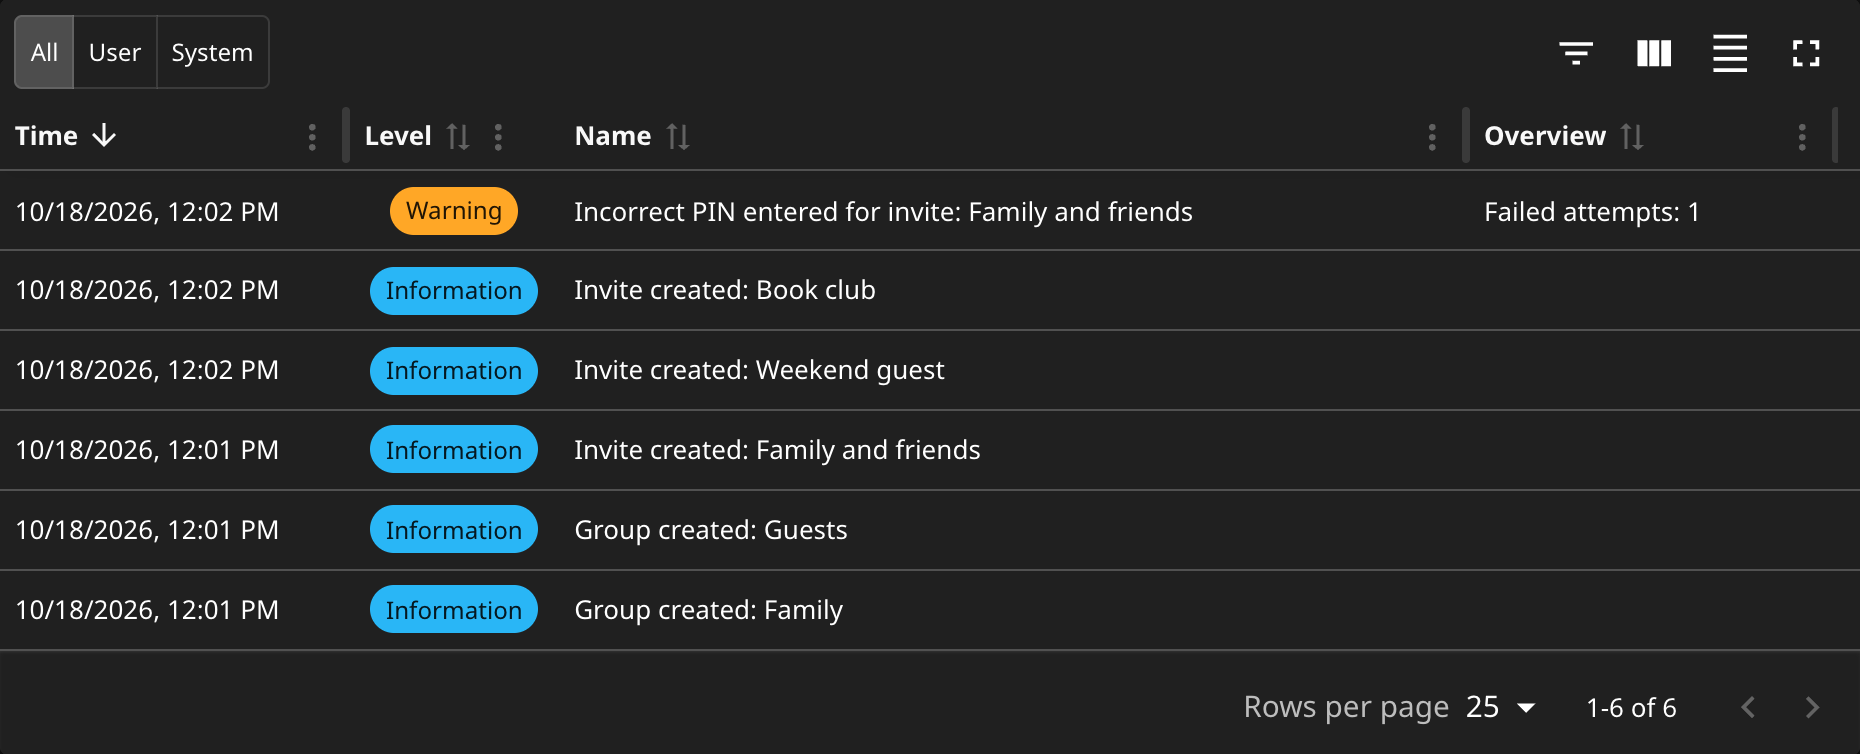
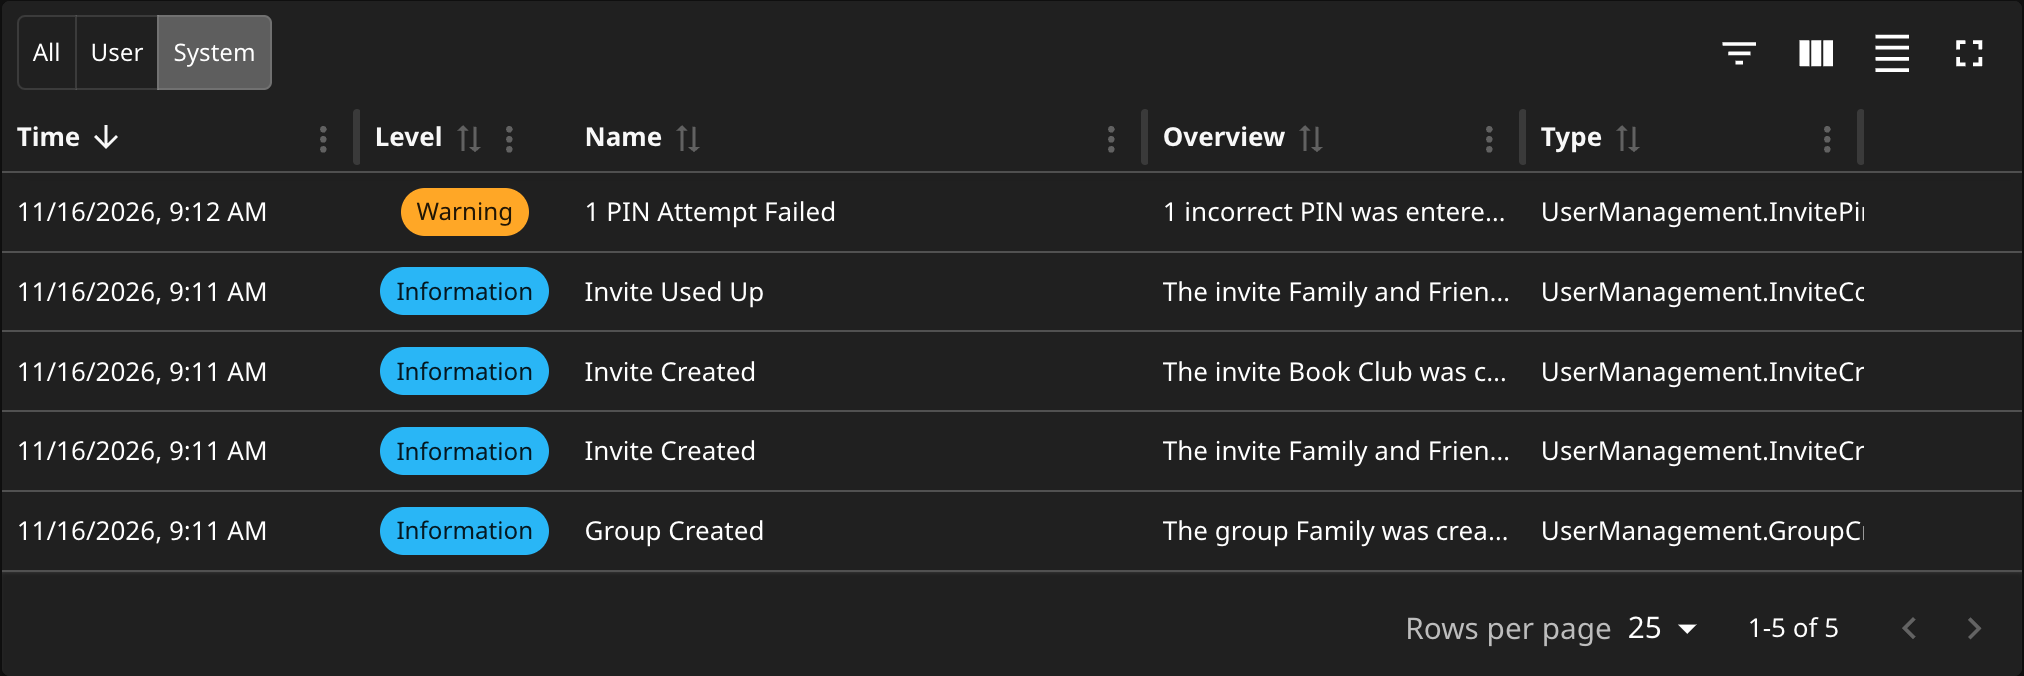
Cover every docs screenshot in the screenshot kit
The kit takes Overview, Create Invite, Manage Access, Password Resets, and
Invite Signup from the plugin's pages, and Activity Log from Jellyfin's own
Activity page on a throwaway Docker server (activity.py). The six shots are
retaken with it.

diff --git a/tools/screenshots/resets.html b/tools/screenshots/resets.html
@@ -1,0 +1,45 @@
+<!doctype html>
+<html dir="ltr" class="layout-desktop"><head><meta charset="utf-8"><meta name="viewport" content="width=device-width, initial-scale=1"><title>User Management Resets</title>
+<!--stylesheets-->
+<script src="upgrade.js"></script>
+</head><body>
+<div class="skinBody"><div class="mainAnimatedPages skinBody-withFullDrawer"><div id="host"></div></div></div>
+<script>
+window.__errs=[];window.addEventListener('error',function(e){__errs.push(e.message)});window.addEventListener('unhandledrejection',function(e){__errs.push(String(e.reason&&e.reason.stack||e.reason))});var _ce=console.error;console.error=function(){__errs.push([].join.call(arguments,' '));_ce.apply(console,arguments)};
+var config = { EnableResetCodeExtraction: true, Groups: [] };
+function at(min) { return new Date(Date.now() + min * 60000).toISOString(); }
+var RESETS = [
+  { UserName: 'jordan', Pin: '4F7A-29C1', ExpirationDate: at(22), Expired: false },
+  { UserName: 'grandma', Pin: '8D03-E5B6', ExpirationDate: at(3), Expired: false },
+  { UserName: 'Former Roommate From the College Apartment', Pin: '1C9E-70AF', ExpirationDate: at(41), Expired: false },
+  { UserName: 'alex', Pin: '5B2D-3E84', ExpirationDate: at(-90), Expired: true }
+];
+window.__saved = [];
+window.ApiClient = {
+  serverAddress: function () { return 'https://jellyfin.example.com'; },
+  getUrl: function (p, q) { return p + (q ? '?' + new URLSearchParams(q) : ''); },
+  getCurrentUserId: function () { return 'admin'; },
+  getPluginConfiguration: function () { return Promise.resolve(JSON.parse(JSON.stringify(config))); },
+  updatePluginConfiguration: function (id, c) { window.__saved.push(JSON.parse(JSON.stringify(c))); config = JSON.parse(JSON.stringify(c)); return Promise.resolve({}); },
+  ajax: function (o) { return ApiClient.fetch(o); },
+  fetch: function (o) {
+    var url = o.url || o;
+    window.__saved.push({ req: url, type: o.type, data: o.data });
+    if (/Resets$/.test(url) && (o.type || 'GET') === 'GET') return Promise.resolve({ Resets: JSON.parse(JSON.stringify(RESETS)) });
+    return Promise.resolve({});
+  },
+  getJSON: function () { return Promise.resolve({ Items: [] }); },
+  getUserImageUrl: function () { return ''; }
+};
+window.Dashboard = { alert: function (m) { console.error('Dashboard.alert used: ' + m); }, processPluginConfigurationUpdateResult: function () {}, showLoadingMsg: function () {}, hideLoadingMsg: function () {} };
+window.LibraryMenu = { setTabs: function () {} };
+fetch('configurationpage?name=usermanagement_resets').then(function (r) { return r.text(); }).then(function (html) {
+  document.getElementById('host').innerHTML = html;
+  var view = document.querySelector('[data-role=page]');
+  return import('./configurationpage?name=usermanagement_resets.js').then(function (mod) {
+    mod.default(view);
+    view.dispatchEvent(new CustomEvent('viewshow')); window.__view = view;
+  });
+}).catch(function (e) { console.error('harness', e); });
+</script>
+</body></html>

diff --git a/tools/screenshots/activity.py b/tools/screenshots/activity.py
@@ -1,0 +1,92 @@
+"""Takes the Activity Log screenshot: the plugin's entries on Jellyfin's own Activity page, which only a real server draws.
+
+Usage: python3 -I activity.py   (run ./build.sh first, so dist/ holds the plugin ZIP)
+It starts a throwaway Jellyfin in Docker with the plugin from the newest ZIP in dist/, makes a generic admin with a
+random password, creates two invites, redeems one, enters a wrong PIN on the other, then has shoot.mjs open the
+Activity page. The container and its folder are removed afterwards. IMAGE, PORT (default 8844) and the shoot.mjs
+variables (PLAYWRIGHT_CORE, CHROMIUM) can be set in the environment.
+"""
+import glob, json, os, re, secrets, shutil, subprocess, sys, tempfile, time, urllib.error, urllib.request, zipfile
+
+HERE = os.path.dirname(os.path.abspath(__file__))
+REPO = os.path.abspath(os.path.join(HERE, '..', '..'))
+IMAGE = os.environ.get('IMAGE', 'jellyfin/jellyfin:12.4.20261026-211555')
+PORT = int(os.environ.get('PORT', '8844'))
+NAME = 'um-activity-shot'
+PLUGIN_ID = re.search(r'^guid: *"?([0-9a-f-]+)', open(os.path.join(REPO, 'build.yaml')).read(), re.M).group(1)
+ROOT = 'http://127.0.0.1:%d' % PORT
+AUTH = 'MediaBrowser Client="screenshots", Device="screenshots", DeviceId="um-activity-shot", Version="1.0"'
+
+
+def call(method, path, body=None, token=None):
+    headers = {'Content-Type': 'application/json', 'Authorization': AUTH + (', Token="%s"' % token if token else '')}
+    data = json.dumps(body).encode() if body is not None else None
+    try:
+        with urllib.request.urlopen(urllib.request.Request(ROOT + path, data=data, method=method, headers=headers), timeout=30) as r:
+            text = r.read().decode()
+            return json.loads(text) if text.strip() else None
+    except urllib.error.HTTPError as ex:
+        ex.msg = '%s %s: %s' % (method, path, ex.read().decode()[:300])
+        raise
+
+
+def wait(what, check, timeout=180):
+    end = time.time() + timeout
+    while time.time() < end:
+        try:
+            if check():
+                return
+        except (urllib.error.URLError, ConnectionError, OSError):
+            pass
+        time.sleep(2)
+    sys.exit('Timed out waiting for ' + what + '.')
+
+
+zips = sorted(glob.glob(os.path.join(REPO, 'dist', '*.zip')), key=os.path.getmtime)
+if not zips:
+    sys.exit('No plugin ZIP in dist/. Run ./build.sh first.')
+work = tempfile.mkdtemp(prefix='um-activity-')
+plugin_dir = os.path.join(work, 'config', 'plugins', 'UserManagement')
+os.makedirs(plugin_dir)
+os.makedirs(os.path.join(work, 'cache'))
+with zipfile.ZipFile(zips[-1]) as z:
+    z.extractall(plugin_dir)
+
+subprocess.run(['docker', 'rm', '-f', NAME], capture_output=True)
+user = ['--user', '%d:%d' % (os.getuid(), os.getgid())]
+subprocess.run(['docker', 'run', '-d', '--name', NAME, *user, '-p', '%d:8096' % PORT, '-v', work + '/config:/config',
+                '-v', work + '/cache:/cache', IMAGE], check=True, capture_output=True)
+try:
+    wait('the server', lambda: call('GET', '/System/Info/Public').get('Version'))
+    wait('the startup wizard', lambda: call('GET', '/Startup/Configuration') is not None)
+    password = secrets.token_urlsafe(16)
+    call('POST', '/Startup/Configuration', {'UICulture': 'en-US', 'MetadataCountryCode': 'US', 'PreferredMetadataLanguage': 'en'})
+    call('GET', '/Startup/User')
+    call('POST', '/Startup/User', {'Name': 'admin', 'Password': password})
+    call('POST', '/Startup/Complete')
+    token = call('POST', '/Users/AuthenticateByName', {'Username': 'admin', 'Pw': password})['AccessToken']
+
+    # One group, the default, for new accounts to join.
+    plugin = '/Plugins/%s/Configuration' % PLUGIN_ID
+    config = call('GET', plugin, token=token)
+    group = 'b4e7f2a0-5c1d-4e8a-9f36-2d7a1c0e9b58'
+    config.update(Groups=[{'Id': group, 'Name': 'Family', 'MemberIds': []}], DefaultGroupId=group)
+    call('POST', plugin, config, token)
+
+    family = call('POST', '/UserManagement/Invites', {'Label': 'Family and Friends', 'MaxUses': 1}, token)
+    club = call('POST', '/UserManagement/Invites', {'Label': 'Book Club', 'Pin': '482615'}, token)
+    call('POST', '/Invite/%s/Redeem' % family['Token'], {'Username': 'jordan', 'Password': secrets.token_urlsafe(12)})
+    try:
+        call('POST', '/Invite/%s/Redeem' % club['Token'], {'Pin': '000000', 'Username': 'guest', 'Password': secrets.token_urlsafe(12)})
+    except urllib.error.HTTPError:
+        pass
+    # Wrong PINs are summed into one entry, written after 30 quiet seconds.
+    wait('the PIN summary', lambda: any(e['Type'] == 'UserManagement.InvitePinFailed'
+                                        for e in call('GET', '/System/ActivityLog/Entries?limit=50', token=token)['Items']), 120)
+
+    env = dict(os.environ, JELLYFIN_URL=ROOT, JELLYFIN_TOKEN=token,
+               JELLYFIN_USER=call('GET', '/Users/Me', token=token)['Id'], JELLYFIN_SERVER=call('GET', '/System/Info/Public')['Id'])
+    subprocess.run(['node', os.path.join(HERE, 'shoot.mjs'), 'Activity Log'], env=env, check=True)
+finally:
+    subprocess.run(['docker', 'rm', '-f', NAME], capture_output=True)
+    shutil.rmtree(work, ignore_errors=True)

diff --git a/tools/screenshots/server.py b/tools/screenshots/server.py
@@ -1,9 +1,10 @@
-"""User Management screenshot server: serves the plugin pages, Base and jellyfin-web the way Jellyfin does.
+"""User Management screenshot server: serves the plugin pages, Base and jellyfin-web the way Jellyfin does, and the
+invite signup page at /invite/<token> through Base's status template the way InviteController does.
 
 Usage: python3 -I server.py [port]   (default 8842)
 Base comes from the NuGet cache at the version the plugin's csproj references. JELLYFIN_WEB picks the jellyfin-web folder.
 """
-import http.server, os, re, sys, urllib.parse
+import http.server, json, os, re, sys, urllib.parse
 HERE = os.path.dirname(os.path.abspath(__file__))
 PLUGIN = os.path.join(HERE, '..', '..', 'Jellyfin.Plugin.UserManagement')
 CONF = os.path.join(PLUGIN, 'Configuration')
@@ -21,6 +22,20 @@ def base_assets():
     if not os.path.isdir(path):
         sys.exit('Base %s is not in the NuGet cache (%s). Run dotnet restore on the plugin first.' % (m.group(1), path))
     return path
+
+
+def status_page(content):
+    """Mirrors InviteController: StatusPage.Render("", "", title: "Invite", buttonText: null, content: the signup page)."""
+    values = {'TITLE': 'Invite', 'HEADING': '', 'MESSAGE': '', 'SPINNER': '', 'BUTTON': '', 'CONTENT': content}
+    template = open(os.path.join(BASE, '..', 'templates', 'status.html'), encoding='utf-8').read()
+    return re.sub(r'\{\{([A-Z_]+)\}\}', lambda m: values.get(m.group(1), m.group(0)), template)
+
+
+# What the signup page asks the server for, with a generic invite that needs a PIN.
+SIGNUP = {
+    'Info': {'Valid': True, 'RequiresPin': True, 'Message': 'Welcome to the family server. Pick a username and password to get started.'},
+    'System/Info/Public': {'ServerName': 'Jellyfin'},
+}
 
 
 def stylesheets():
@@ -45,6 +60,16 @@ class H(http.server.BaseHTTPRequestHandler):
     def do_GET(self):
         u = urllib.parse.urlparse(self.path)
         q = urllib.parse.parse_qs(u.query)
+        invite = re.match(r'^/invite/[^/]+(/Info)?$', u.path)
+        if invite:
+            if invite.group(1):
+                return self.send(json.dumps(SIGNUP['Info']).encode(), 'application/json')
+            page = status_page(open(os.path.join(CONF, 'usermanagement_invite_public.html'), encoding='utf-8').read())
+            return self.send(page.encode(), 'text/html; charset=utf-8')
+        if u.path == '/System/Info/Public':
+            return self.send(json.dumps(SIGNUP['System/Info/Public']).encode(), 'application/json')
+        if u.path.startswith('/web/'):
+            u = u._replace(path='/jf/' + u.path[5:])
         if u.path.endswith('configurationpage') and 'name' in q:
             name = q['name'][0]
             if name.startswith('usermanagement_jpkribs_shared'):
@@ -61,8 +86,11 @@ class H(http.server.BaseHTTPRequestHandler):
         data = open(path, 'rb').read()
         if os.path.dirname(os.path.abspath(path)) == HERE and path.endswith('.html'):
             data = data.replace(b'<!--stylesheets-->\n', LINKS.encode())
+        self.send(data, TYPES.get(os.path.splitext(path)[1], 'text/html'))
+
+    def send(self, data, kind):
         self.send_response(200)
-        self.send_header('Content-Type', TYPES.get(os.path.splitext(path)[1], 'text/html'))
+        self.send_header('Content-Type', kind)
         self.send_header('Cache-Control', 'no-store')
         self.end_headers()
         self.wfile.write(data)

diff --git a/tools/screenshots/README.md b/tools/screenshots/README.md
@@ -1,16 +1,16 @@
 # Screenshot Kit
 
-Takes the Groups and Invites screenshots in `docs/screenshots/` from the plugin's own pages, drawn with Jellyfin's real stylesheets and generic sample data. It needs no Jellyfin server.
+Takes every screenshot in `docs/screenshots/` from the plugin's own pages, drawn with Jellyfin's real stylesheets and generic sample data. Only Activity Log needs a server, and `activity.py` starts a throwaway one in Docker.
 
 | File | Does |
 | :--- | :--- |
-| `server.py` | Serves the plugin pages, Base from the NuGet cache, and jellyfin-web, the way Jellyfin's `configurationpage` route does |
+| `server.py` | Serves the plugin pages, Base from the NuGet cache, and jellyfin-web, the way Jellyfin's `configurationpage` route does. It serves the signup page at `/invite/<token>` through Base's status template, the way `InviteController` does |
 | `groups.html` | Mounts the Groups tab with a stand-in `ApiClient` holding the sample groups, users, libraries, and devices |
 | `invites.html` | Mounts the Invites tab with a stand-in `ApiClient` holding the sample invites |
+| `resets.html` | Mounts the Resets tab with a stand-in `ApiClient` holding sample reset codes |
+| `activity.py` | Starts Jellyfin in Docker with the plugin from `dist/`, makes invites, redeems one, enters a wrong PIN, and takes Activity Log from Jellyfin's own page |
 | `upgrade.js` | Adds the classes and markup Jellyfin's `emby-*` elements add on upgrade, so the real CSS applies |
 | `shoot.mjs` | Opens each subject, sets it up, and writes every PNG to `docs/screenshots/` |
-
-The other screenshots in `docs/screenshots/` come from a test server and have no subject here.
 
 ## Requirements
 
@@ -19,6 +19,7 @@ The other screenshots in `docs/screenshots/` come from a test server and have no
 * Chromium. Set `CHROMIUM` to its binary when it is not Playwright's `chromium-1148` in `~/Library/Caches/ms-playwright`.
 * jellyfin-web. Set `JELLYFIN_WEB` when it is not the macOS app's `/Applications/Jellyfin.app/Contents/Resources/jellyfin-web`.
 * Base in the NuGet cache at the version the plugin's csproj references. `dotnet restore` on the plugin puts it there.
+* For Activity Log only, Docker and a plugin ZIP in `dist/` from `./build.sh`.
 
 ## Running
 
@@ -29,10 +30,16 @@ python3 -I server.py &
 PLAYWRIGHT_CORE=/path/to/node_modules/playwright-core/index.mjs node shoot.mjs
 ```
 
+Activity Log is left out of that run. Take it with its own script, which removes the container when done.
+
+```bash
+PLAYWRIGHT_CORE=/path/to/node_modules/playwright-core/index.mjs python3 -I activity.py
+```
+
 Name files to retake only those.
 
 ```bash
 node shoot.mjs "Invite List" "Invite List Phone"
 ```
 
-`server.py 8843` and `PORT=8843` run both on another port. Look at every PNG the kit writes before committing it. A new subject is one more entry in the `shots` list of `shoot.mjs`, and new sample data goes in `groups.html` or `invites.html`.
+`server.py 8843` and `PORT=8843` run both on another port. Look at every PNG the kit writes before committing it. A new subject is one more entry in the `shots` list of `shoot.mjs`, and new sample data goes in `groups.html`, `invites.html` or `resets.html`.

diff --git a/skills/testing.md b/skills/testing.md
@@ -111,7 +111,7 @@ Check each name in the import list of `usermanagement_shared.js` against the typ
 Look at every changed page before calling it done.
 
 * **On a test server.** Build with `./build.sh`, unzip the zip from `dist/` into a test Jellyfin's `plugins` folder, restart it, and open each tab. Never use a server real users depend on, since saving a group applies it to its members.
-* **In a browser harness.** When no test server is available, open the Groups or Invites tab with the screenshot kit in `tools/screenshots/`, as its [README](../tools/screenshots/README.md) describes. For another page, serve it the same way. Map `configurationpage?name=<file>` to the plugin's files and `usermanagement_jpkribs_shared.*` to Base's `assets/jpkribs_shared.*`. Stub `ApiClient`, `Dashboard`, and `LibraryMenu` with sample config, load the page's HTML into the document, call the module's default export with the page element, and dispatch `viewshow` on it.
+* **In a browser harness.** When no test server is available, open the Groups, Invites or Resets tab, or the signup page, with the screenshot kit in `tools/screenshots/`, as its [README](../tools/screenshots/README.md) describes. For another page, serve it the same way. Map `configurationpage?name=<file>` to the plugin's files and `usermanagement_jpkribs_shared.*` to Base's `assets/jpkribs_shared.*`. Stub `ApiClient`, `Dashboard`, and `LibraryMenu` with sample config, load the page's HTML into the document, call the module's default export with the page element, and dispatch `viewshow` on it.
 
 In either, check that the page loads with no console error, that each changed control saves the config it should, and that the page works at 375 px wide. Say which of the two you used in the report.
 

diff --git a/skills/documentation.md b/skills/documentation.md
@@ -153,13 +153,13 @@ Use `##` for README headings. Keep the README under 40 lines.
 
 * Capture every page and dialog a docs page describes.
 * Capture the dark theme only, which is Jellyfin's default.
-* Capture from a test server whose users, groups, and invites have generic names.
+* Capture with the screenshot kit, whose users, groups, and invites have generic names.
 * Capture with groups, invites, and pending resets in place so lists, counts, and badges are filled.
 * Hide nothing with editing. When a value is private, change the test data instead.
 
 ### The Screenshot Kit
 
-`tools/screenshots/` takes the Groups and Invites shots from the plugin's own pages with generic sample data. Its [README](../tools/screenshots/README.md) lists what it needs and how to run it.
+`tools/screenshots/` takes every shot from the plugin's own pages with generic sample data, and Activity Log from a throwaway Docker server. Its [README](../tools/screenshots/README.md) lists what it needs and how to run it.
 
 ```bash
 cd tools/screenshots
@@ -167,7 +167,7 @@ python3 -I server.py &
 PLAYWRIGHT_CORE=/path/to/node_modules/playwright-core/index.mjs node shoot.mjs
 ```
 
-`node shoot.mjs "Invite List"` retakes only the named files. A new Groups or Invites subject is one more entry in the `shots` list of `shoot.mjs`. Take the other screenshots from a test server.
+`python3 -I activity.py` takes Activity Log. `node shoot.mjs "Invite List"` retakes only the named files. A new subject is one more entry in the `shots` list of `shoot.mjs`.
 
 ### Sizes
 
